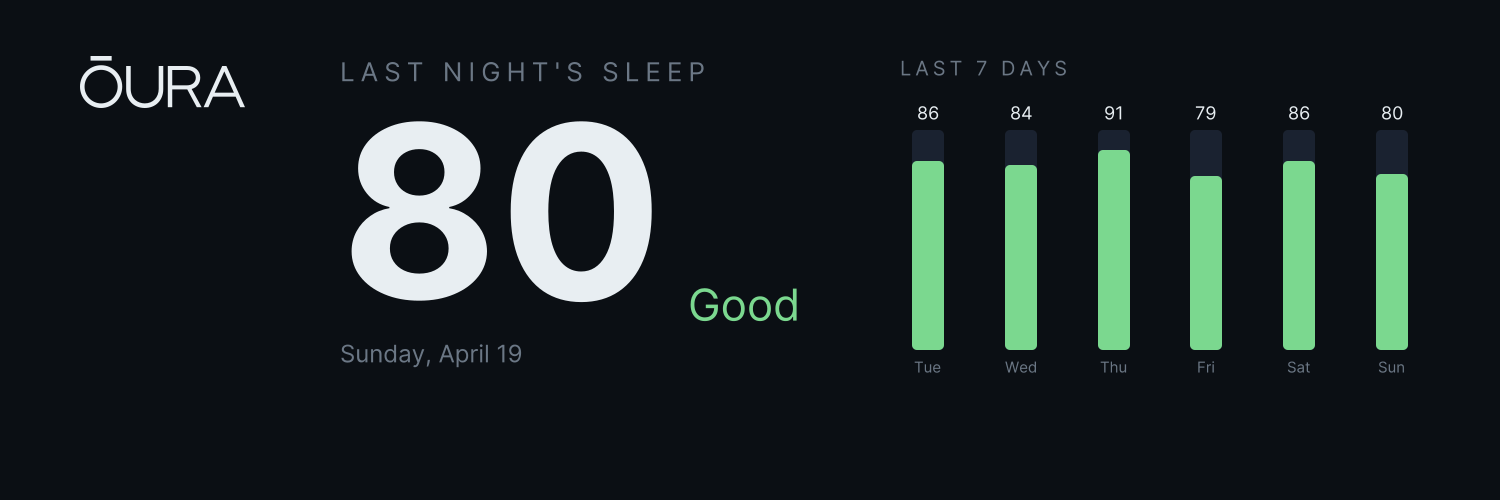
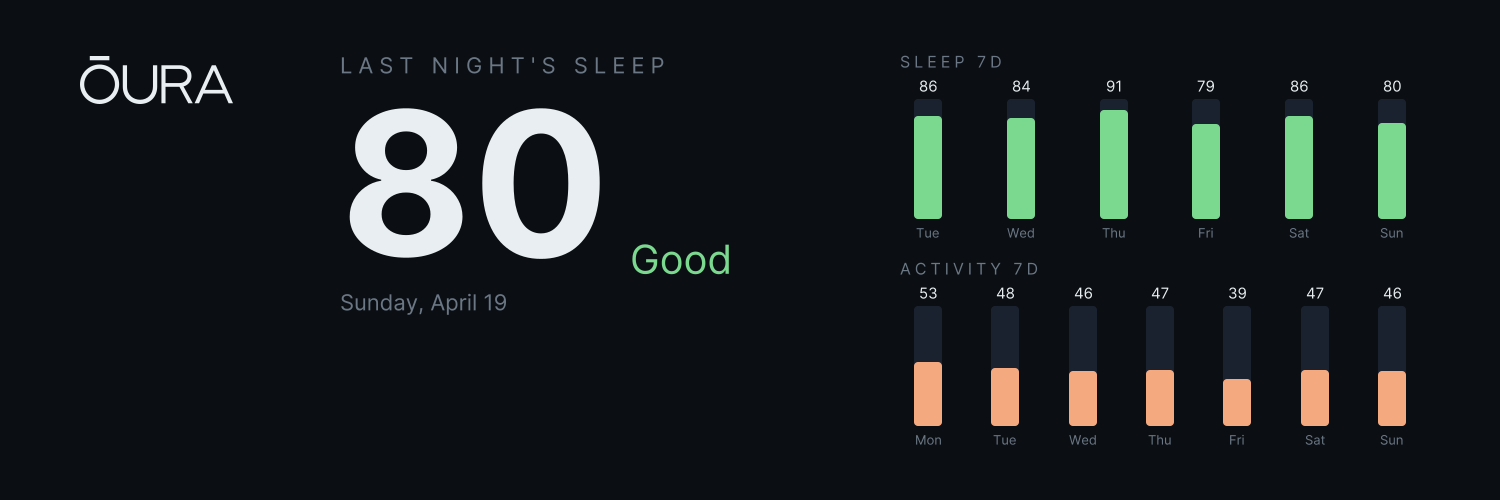
added activity

diff --git a/src/banner/template.tsx b/src/banner/template.tsx
@@ -1,4 +1,4 @@
-import type { SleepSummary } from '../oura/oura.service';
+import type { DailySummary, MetricSummary } from '../oura/oura.service';
 
 type El = { type: string; props: Record<string, unknown> };
 type ElType = string | ((props: Record<string, unknown>) => El);
@@ -21,18 +21,18 @@ export function h(
 const BG = '#0B0F14';
 const FG = '#E8EEF2';
 const MUTED = '#6B7785';
-const ACCENT = '#7BD88F';
+const SLEEP = '#7BD88F';
+const ACTIVITY = '#F5A97F';
 const BAR_BG = '#1A2230';
 
 const WIDTH = 1500;
 const HEIGHT = 500;
-const MAX_BAR = 220;
 const AVATAR_GUTTER = 260;
 
-export function buildBanner(summary: SleepSummary): El {
-  const tier = scoreTier(summary.latest.score);
-  const formattedDate = formatDate(summary.latest.day);
-  const history = summary.history.slice(-7);
+export function buildBanner(summary: DailySummary): El {
+  const sleep = summary.sleep;
+  const tier = scoreTier(sleep.latest.score);
+  const formattedDate = formatDate(sleep.latest.day);
 
   return (
     <div
@@ -43,7 +43,7 @@ export function buildBanner(summary: SleepSummary): El {
         background: BG,
         color: FG,
         fontFamily: 'Inter',
-        padding: '56px 80px',
+        padding: '52px 80px',
         boxSizing: 'border-box',
         position: 'relative',
       }}
@@ -56,7 +56,7 @@ export function buildBanner(summary: SleepSummary): El {
           left: 80,
         }}
       >
-        <OuraLogo height={52} />
+        <OuraLogo height={48} />
       </div>
 
       <div
@@ -71,7 +71,7 @@ export function buildBanner(summary: SleepSummary): El {
         <div
           style={{
             display: 'flex',
-            fontSize: 26,
+            fontSize: 22,
             letterSpacing: 6,
             textTransform: 'uppercase',
             color: MUTED,
@@ -80,21 +80,21 @@ export function buildBanner(summary: SleepSummary): El {
           Last night's sleep
         </div>
         <div style={{ display: 'flex', alignItems: 'baseline', marginTop: 4 }}>
-          <div style={{ display: 'flex', fontSize: 240, fontWeight: 700, lineHeight: 1 }}>
-            {String(summary.latest.score)}
+          <div style={{ display: 'flex', fontSize: 200, fontWeight: 700, lineHeight: 1 }}>
+            {String(sleep.latest.score)}
           </div>
           <div
             style={{
               display: 'flex',
-              fontSize: 44,
-              color: ACCENT,
-              marginLeft: 24,
+              fontSize: 40,
+              color: SLEEP,
+              marginLeft: 20,
             }}
           >
             {tier}
           </div>
         </div>
-        <div style={{ display: 'flex', fontSize: 24, color: MUTED, marginTop: 8 }}>
+        <div style={{ display: 'flex', fontSize: 22, color: MUTED, marginTop: 6 }}>
           {formattedDate}
         </div>
       </div>
@@ -103,32 +103,54 @@ export function buildBanner(summary: SleepSummary): El {
         style={{
           display: 'flex',
           flexDirection: 'column',
-          justifyContent: 'flex-start',
+          justifyContent: 'space-between',
           width: 520,
         }}
       >
-        <div
-          style={{
-            display: 'flex',
-            fontSize: 20,
-            letterSpacing: 4,
-            textTransform: 'uppercase',
-            color: MUTED,
-            marginBottom: 16,
-          }}
-        >
-          Last 7 days
-        </div>
-        <div
-          style={{
-            display: 'flex',
-            alignItems: 'flex-end',
-            justifyContent: 'space-between',
-            height: MAX_BAR + 60,
-          }}
-        >
-          {history.map((d) => renderBar(d))}
-        </div>
+        <MiniChart label="Sleep 7d" color={SLEEP} history={summary.sleep.history.slice(-7)} />
+        <MiniChart
+          label="Activity 7d"
+          color={ACTIVITY}
+          history={summary.activity.history.slice(-7)}
+        />
+      </div>
+    </div>
+  ) as unknown as El;
+}
+
+function MiniChart({
+  label,
+  color,
+  history,
+}: {
+  label: string;
+  color: string;
+  history: { day: string; score: number }[];
+}): El {
+  const maxBar = 120;
+  return (
+    <div style={{ display: 'flex', flexDirection: 'column' }}>
+      <div
+        style={{
+          display: 'flex',
+          fontSize: 16,
+          letterSpacing: 4,
+          textTransform: 'uppercase',
+          color: MUTED,
+          marginBottom: 10,
+        }}
+      >
+        {label}
+      </div>
+      <div
+        style={{
+          display: 'flex',
+          alignItems: 'flex-end',
+          justifyContent: 'space-between',
+          height: maxBar + 40,
+        }}
+      >
+        {history.map((d) => renderBar(d, color, maxBar))}
       </div>
     </div>
   ) as unknown as El;
@@ -146,8 +168,8 @@ function OuraLogo({ height }: { height: number }): El {
   ) as unknown as El;
 }
 
-function renderBar(d: { day: string; score: number }): El {
-  const fill = Math.max(10, Math.round((d.score / 100) * MAX_BAR));
+function renderBar(d: { day: string; score: number }, color: string, maxBar: number): El {
+  const fill = Math.max(8, Math.round((d.score / 100) * maxBar));
   return (
     <div
       style={{
@@ -157,7 +179,7 @@ function renderBar(d: { day: string; score: number }): El {
         width: 56,
       }}
     >
-      <div style={{ display: 'flex', fontSize: 18, color: FG, marginBottom: 6 }}>
+      <div style={{ display: 'flex', fontSize: 15, color: FG, marginBottom: 4 }}>
         {String(d.score)}
       </div>
       <div
@@ -165,23 +187,23 @@ function renderBar(d: { day: string; score: number }): El {
           display: 'flex',
           flexDirection: 'column',
           justifyContent: 'flex-end',
-          width: 32,
-          height: MAX_BAR,
+          width: 28,
+          height: maxBar,
           background: BAR_BG,
-          borderRadius: 5,
+          borderRadius: 4,
         }}
       >
         <div
           style={{
             display: 'flex',
-            width: 32,
+            width: 28,
             height: fill,
-            background: ACCENT,
-            borderRadius: 5,
+            background: color,
+            borderRadius: 4,
           }}
         />
       </div>
-      <div style={{ display: 'flex', fontSize: 15, color: MUTED, marginTop: 8 }}>
+      <div style={{ display: 'flex', fontSize: 13, color: MUTED, marginTop: 6 }}>
         {shortDay(d.day)}
       </div>
     </div>

diff --git a/src/oura/oura.service.ts b/src/oura/oura.service.ts
@@ -2,17 +2,24 @@ import { Injectable, InternalServerErrorException, Logger } from '@nestjs/common
 import { ConfigService } from '@nestjs/config';
 import axios, { AxiosInstance } from 'axios';
 
-export interface DailySleep {
+export interface DailyMetric {
   day: string;
   score: number;
 }
 
-export interface SleepSummary {
-  latest: DailySleep;
-  history: DailySleep[];
+export interface MetricSummary {
+  latest: DailyMetric;
+  history: DailyMetric[];
 }
 
-interface OuraDailySleepResponse {
+export interface SleepSummary extends MetricSummary {}
+
+export interface DailySummary {
+  sleep: MetricSummary;
+  activity: MetricSummary;
+}
+
+interface OuraScoreResponse {
   data: Array<{ day: string; score: number | null }>;
 }
 
@@ -33,27 +40,40 @@ export class OuraService {
     });
   }
 
-  async getSleepSummary(days = 7): Promise<SleepSummary> {
+  async getSleepSummary(days = 7): Promise<MetricSummary> {
+    return this.fetchMetric('/usercollection/daily_sleep', 'sleep', days);
+  }
+
+  async getDailySummary(days = 7): Promise<DailySummary> {
+    const [sleep, activity] = await Promise.all([
+      this.fetchMetric('/usercollection/daily_sleep', 'sleep', days),
+      this.fetchMetric('/usercollection/daily_activity', 'activity', days),
+    ]);
+    return { sleep, activity };
+  }
+
+  private async fetchMetric(
+    path: string,
+    label: string,
+    days: number,
+  ): Promise<MetricSummary> {
     const end = new Date();
     const start = new Date();
     start.setDate(end.getDate() - days);
 
-    const { data } = await this.http.get<OuraDailySleepResponse>(
-      '/usercollection/daily_sleep',
-      {
-        params: {
-          start_date: toIsoDate(start),
-          end_date: toIsoDate(end),
-        },
+    const { data } = await this.http.get<OuraScoreResponse>(path, {
+      params: {
+        start_date: toIsoDate(start),
+        end_date: toIsoDate(end),
       },
-    );
+    });
 
     const history = data.data
       .filter((d): d is { day: string; score: number } => typeof d.score === 'number')
       .sort((a, b) => a.day.localeCompare(b.day));
 
     if (history.length === 0) {
-      throw new InternalServerErrorException('Oura returned no sleep scores');
+      throw new InternalServerErrorException(`Oura returned no ${label} scores`);
     }
 
     return {

diff --git a/src/banner/banner.service.ts b/src/banner/banner.service.ts
@@ -2,7 +2,7 @@ import { Injectable, Logger } from '@nestjs/common';
 import axios from 'axios';
 import satori from 'satori';
 import sharp from 'sharp';
-import type { SleepSummary } from '../oura/oura.service';
+import type { DailySummary } from '../oura/oura.service';
 import { BANNER_DIMS, buildBanner } from './template';
 
 const INTER_REGULAR_URL =
@@ -15,7 +15,7 @@ export class BannerService {
   private readonly logger = new Logger(BannerService.name);
   private fontCache: { regular: Buffer; bold: Buffer } | null = null;
 
-  async render(summary: SleepSummary): Promise<Buffer> {
+  async render(summary: DailySummary): Promise<Buffer> {
     const fonts = await this.loadFonts();
     const tree = buildBanner(summary);
 

diff --git a/src/app.service.ts b/src/app.service.ts
@@ -16,9 +16,9 @@ export class AppService {
   ) {}
 
   async updateBanner(opts: { dryRun?: boolean } = {}): Promise<void> {
-    const summary = await this.oura.getSleepSummary();
+    const summary = await this.oura.getDailySummary();
     this.logger.log(
-      `Latest score ${summary.latest.score} for ${summary.latest.day} (${summary.history.length} day history)`,
+      `Sleep ${summary.sleep.latest.score} · Activity ${summary.activity.latest.score} for ${summary.sleep.latest.day}`,
     );
 
     const png = await this.banner.render(summary);
